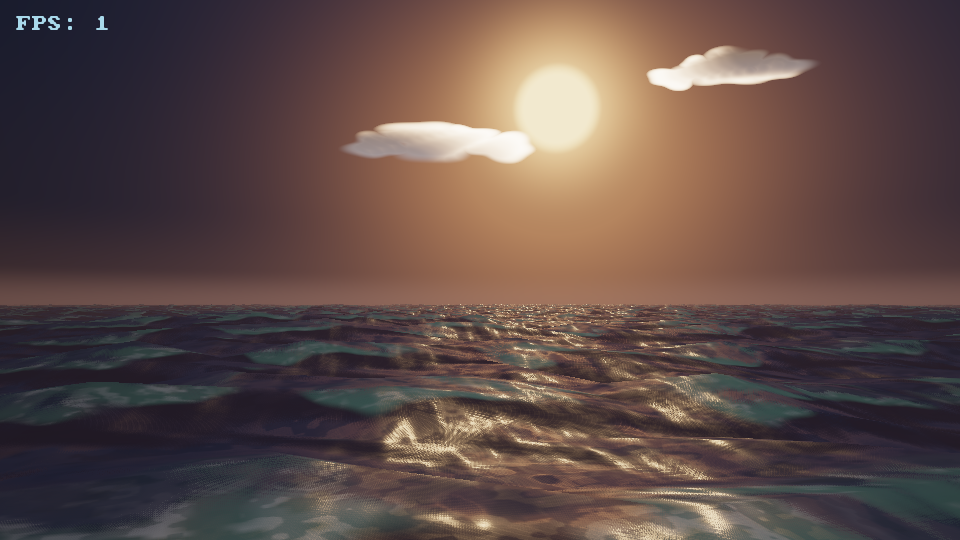
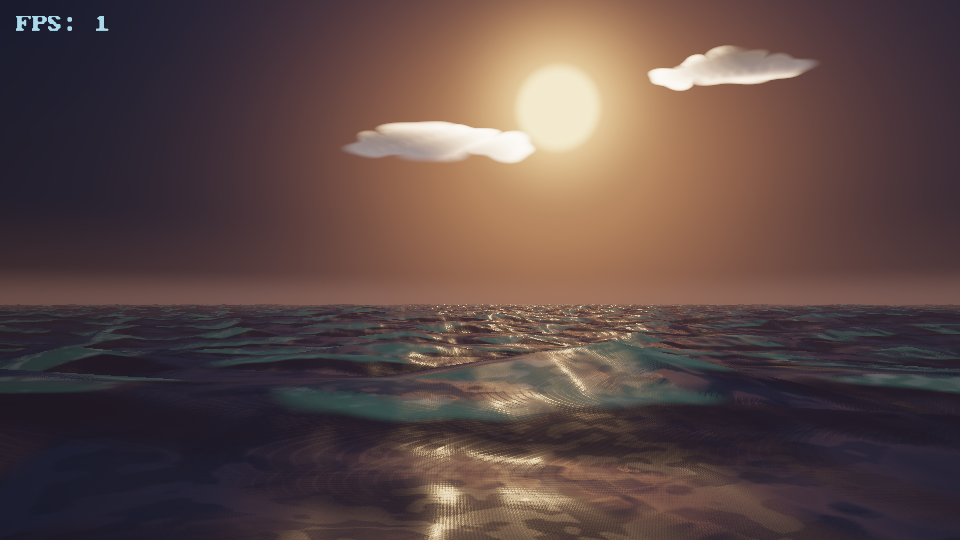
Fuse both scenes into ElectroBench with GL 3.3 probe, fix white UZIs (roughness map never loaded) and janky HUD font atlas, cloud realism pass
build/ElectroBench now runs the OG 60 s gun scene, then probes a GL 3.3
core context: found, TideBench runs as scene 2 on the same session and
the final screen shows per-scene scores plus the average; not found,
TideBench skips itself so GL 2.1-only machines still get a working
benchmark (--og-only forces the single scene). The super-white guns
were two real loader bugs: the MTL parser looked for the literal
needle "map_Ki %s" (never matches) so UZI_Roughness.png never loaded
and specular ran at full power, and the texture loader left the wrong
texture bound after upload; maps also gain mipmaps. The ps14 HUD font
bled neighbouring glyphs through full-cell LINEAR UVs — now
half-texel inset. Clouds: puffs slowly morph, silhouettes tear along
a low-frequency wobble, undersides darken with real flat bases, a
sixth thin high streak bank joins, and the sea's cloud shadows track
the same evolved field.

🤖 Generated with Codebuff

Changed region(s): [[0.0, 0.563, 1.0, 1.0], [0.0, 0.0296, 0.0625, 0.0593], [0.9688, 0.5926, 1.0, 0.6222]]

diff --git a/README.md b/README.md
@@ -131,13 +131,27 @@ it — a fair curve from office PCs to gaming rigs. Both binaries print
 
 # The results screen
 
-When the 45/60 second run ends, **both benchmarks clear the window and print the final score
-on screen** — a big centred score with the time and average FPS underneath — and leave it up
+When the 45/60 second run ends, **the benchmark clears the window and prints the final score
+on screen** — a big centred score with the time and average FPS underneath — and leaves it up
 for about ten seconds (or until you press `ESC`). The same line is also printed to stdout.
 
 ```sh
 Benchmark Results - Time : 45.0s, Average FPS : 12.4, Score : 308
 ```
+
+# One binary, two scenes
+
+`build/ElectroBench` now contains **both scenes**. It runs the OG 60-second gun benchmark
+first, then probes an OpenGL 3.3 core context:
+
+- **found** — TideBench (the dusk ocean) runs as scene 2 on the same session, and the final
+  results screen shows **per-scene scores and the average**:
+  `Fused Results - ElectroBench : 308 | TideBench : 42 | Average : 175`
+- **not found** (GL 2.1-only drivers, old iGPUs) — TideBench skips itself cleanly and the OG
+  result stands, so the binary still runs on the ancient hardware it targets
+
+Pass `--og-only` to run just the gun scene even on GL 3.3-capable devices.
+`./build/TideBench` remains available to run the ocean scene on its own.
 
 # Windows (MSYS2)
 
